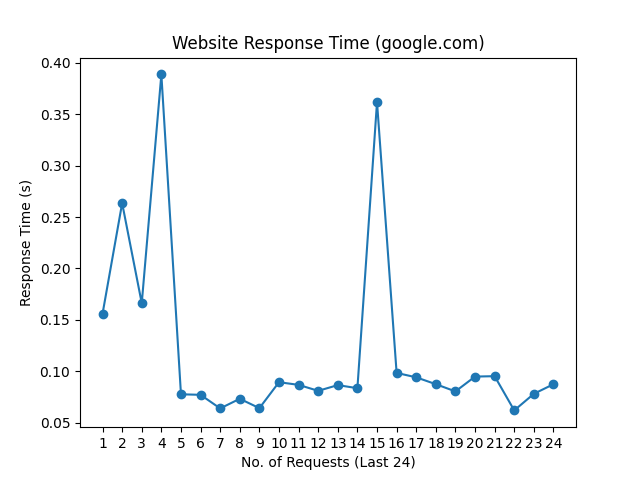
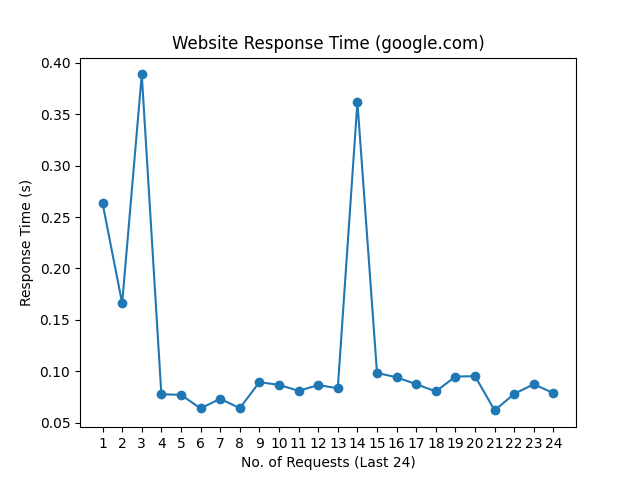
update README.md, history and graph

Changed region(s): [[0.1562, 0.125, 0.875, 0.875]]

diff --git a/README.md b/README.md
@@ -1,10 +1,10 @@
 # Web Monitoring
 
-Last Checked: 12/06/2024 08:16
+Last Checked: 13/06/2024 08:16
 
 | Website | Response Time (s) | Status | Avg Uptime (%) |
 |---------|-------------------|--------|----------------|
 | www.thiswebsiteisdown.net | 0 <br> <img src="graph/thiswebsiteisdown.net.png" alt="Graph" width="200" height="200">  | ❌ Down | 0.00 |
-| www.netflix.com | 0.451246 <br> <img src="graph/netflix.com.png" alt="Graph" width="200" height="200">  | ✅ Up | 100.00 |
-| www.google.com | 0.087494 <br> <img src="graph/google.com.png" alt="Graph" width="200" height="200">  | ✅ Up | 100.00 |
-| www.facebook.com | 0.171941 <br> <img src="graph/facebook.com.png" alt="Graph" width="200" height="200">  | ✅ Up | 100.00 |
+| www.netflix.com | 0.387009 <br> <img src="graph/netflix.com.png" alt="Graph" width="200" height="200">  | ✅ Up | 100.00 |
+| www.google.com | 0.078842 <br> <img src="graph/google.com.png" alt="Graph" width="200" height="200">  | ✅ Up | 100.00 |
+| www.facebook.com | 0.174108 <br> <img src="graph/facebook.com.png" alt="Graph" width="200" height="200">  | ✅ Up | 100.00 |
